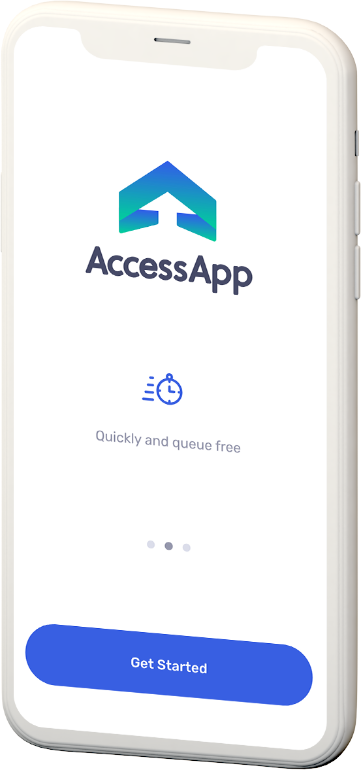
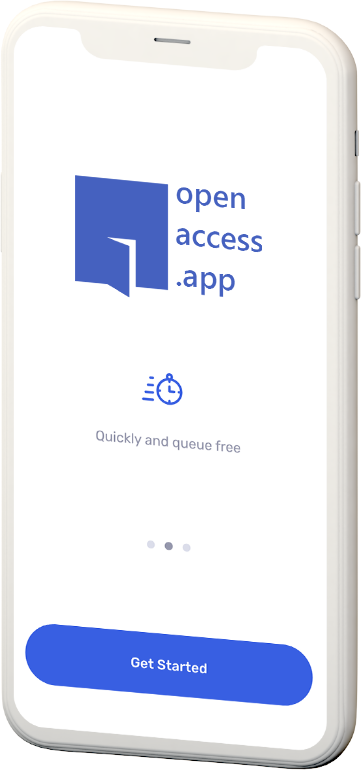
open access app rebrand

Changed region(s): [[0.1828, 0.187, 0.7313, 0.4052]]

diff --git a/src/components/Header.vue b/src/components/Header.vue
@@ -32,12 +32,6 @@
         :places="places"
         :image="image"
       ></navigation>
-      <!-- This is hardcoded for Update Deutschland -->
-        <dir class="update-deutschland">
-          <img class="update-deutschland-image" src="assets/Logo_UpdateDeutschland.svg" />
-          <p>AccessApp is participating in the 48-hours Sprint <br> of Update Deutschland on 19-21 March <a href="https://downloadplaces.app/en/documentation/02-update-deutschland">read more here</a></p>
-        </dir>
-      <!-- This is hardcoded for Update Deutschland -->
       <div class="row">
         <div class="col-xl-6 col-md-6 col-xs-6 col-12 position-left">
           <p class="description">{{ description }}</p>
@@ -79,14 +73,6 @@
       >
         <polygon fill="#FCFDFF" points="0,100 100,0 100,100" />
       </svg>
-      <!-- <div class="row scroll">
-        <div class="col-12">
-          <p class="scroll-design">Scroll</p>
-          <div class="lines"></div>
-          <div class="lines2"></div>
-          <img class="image-design" src="assets/angle-down.png" />
-        </div>
-      </div> -->
     </div>
   </div>
 </template>
@@ -281,21 +267,6 @@ img.position {
 .image-design {
   width: 25px;
   height: 15px;
-}
-
-.update-deutschland {
-  margin-top: -1rem;
-  margin-bottom: 2rem;
-  position: relative;
-  .update-deutschland-image{
-    width: 200px;
-  }
-  p{
-    margin-top: 1rem;
-    a{
-      color: #385fe2;
-    }
-  }
 }
 @media only screen and (max-width: 415px) {
   .header {

diff --git a/src/components/Navigation.vue b/src/components/Navigation.vue
@@ -10,6 +10,10 @@
         </div>
       </div>
     </div>
+    <dir class="update-deutschland">
+      <img class="update-deutschland-image" src="assets/Logo_UpdateDeutschland.svg" />
+      <p>Open Access App is participating in the 48-hours Sprint of Update Deutschland on 19-21 March <a href="https://openaccess.app/en/documentation/80-update-deutschland">read more here</a></p>
+    </dir>
   </div>
 </template>
 
@@ -44,6 +48,22 @@ export default {
 @import "../../public/assets/scss/main.scss";
 .nav {
   padding: 0 0 50px;
+  .update-deutschland {
+    position: relative;
+    display: flex;
+    .update-deutschland-image{
+      width: 130px;
+    }
+    p{
+      margin-top: 0.6rem;
+      margin-left: 20px;
+      width: 360px;
+      text-align: left;
+      a{
+        color: #385fe2;
+      }
+    }
+  }
   .logo-position {
     margin-top: 30px;
     text-align: left;
@@ -54,13 +74,12 @@ export default {
     flex-direction: column;
       span{
         margin-top: 10px;
+        color: #4561BF;
       }
     }
     .row {
       img {
-        width: 264px;
         height: 70px;
-        margin-right: 30px;
       }
       .language {
         background: none;

diff --git a/src/components/Documentation.vue b/src/components/Documentation.vue
@@ -1,10 +1,12 @@
 <template>
   <div class="documentation row">
     <div class="node col-3">
-      <div class="row logo">
-        <img :src="`/assets/${logo}`" />
-        <h1>{{ logoText }}</h1>
-      </div>
+      <router-link :to="`/${$router.history.current.params.lang}`">
+        <div class="row logo">
+          <img :src="`/assets/${logo}`" />
+          <h1>{{ logoText }}</h1>
+        </div>
+      </router-link>
       <hr />
       <p class="start">
         {{ getStarted }}
@@ -27,7 +29,7 @@
     <Footer></Footer>
   </div>
 </template>
- 
+
 <script>
 import documentation from "@content/en/documentation.yaml";
 import marked from "marked";
@@ -121,7 +123,7 @@ export default {
     },
   },
 };
-</script> 
+</script>
 
 <style scoped lang="scss">
 @import "../../public/assets/scss/main.scss";
@@ -151,12 +153,14 @@ export default {
       img {
         width: 55px;
         height: 40px;
-        margin-right: 15px;
       }
       h1 {
         font-size: 15px;
         font-family: $font__descriptions;
-        font-weight: 700;
+        color: #4561BF;
+        &:hover {
+          text-decoration: none !important;
+        }
       }
     }
     .start {

diff --git a/src/components/Partners.vue b/src/components/Partners.vue
@@ -17,17 +17,15 @@
           <div class="contacts">
             <div class="center">
               <p class="name">{{ partners.name }}</p>
-              <div class="row">
+              <div class="row" v-if="partners.email">
                 <img :src="partners['email-image']" />
                 <p>{{ partners.email }}</p>
               </div>
-              <div class="row">
-                <img :src="partners['number-image']" />
-                <p>{{ partners.number }}</p>
-              </div>
-              <div class="row">
+              <div class="row linkedin" v-if="partners.twitter">
                 <img :src="partners['twitter-image']" />
-                <p>{{ partners.twitter }}</p>
+                <a :href="partners.link">
+                  <p style="margin-top:5px;">{{ partners.twitter }}</p>
+                </a>
               </div>
             </div>
           </div>

diff --git a/src/components/Footer.vue b/src/components/Footer.vue
@@ -20,7 +20,7 @@
     <div class="row container-links">
       <img
         class="col-xl-4 col-sm-4 col-md-4 col-4 logo"
-        src="/assets/logo-footer.svg"
+        src="/assets/logo-text.svg"
       />
       <div class="col-xl-3 col-sm-4 col-6 col-md-4 col-xs-6 info">
         <router-link :to="`/${$router.history.current.params.lang}/terms`">
@@ -167,12 +167,11 @@ export default {
   }
   .container-links {
     display: flex;
-    // justify-content: space-between;
     align-items: center;
     padding: 50px 190px;
     z-index: 1;
     .logo {
-      max-width: 205px;
+      max-width: 170px;
       max-height: 155px;
       padding: 0;
     }
@@ -283,7 +282,7 @@ export default {
           width: 320px;
         }
         img {
-          margin-top: 60px; 
+          margin-top: 60px;
           margin-bottom: 20px;
         }
       }

diff --git a/public/index.html b/public/index.html
@@ -19,7 +19,7 @@
     <link id="favicon" rel="icon" type="image/svg+xml" href="<%= BASE_URL %><%= htmlWebpackPlugin.options.favicon_name %>">
     <link id="favicon1" rel="icon" type="image/svg+xml" href="<%= BASE_URL %><%= htmlWebpackPlugin.options.favicon_safari_name %>">
     <link rel="mask-icon" href="" color="#000000">
-    <title>AccessApp</title>
+    <title>Open Access App</title>
   </head>
   <body>
     <noscript>
